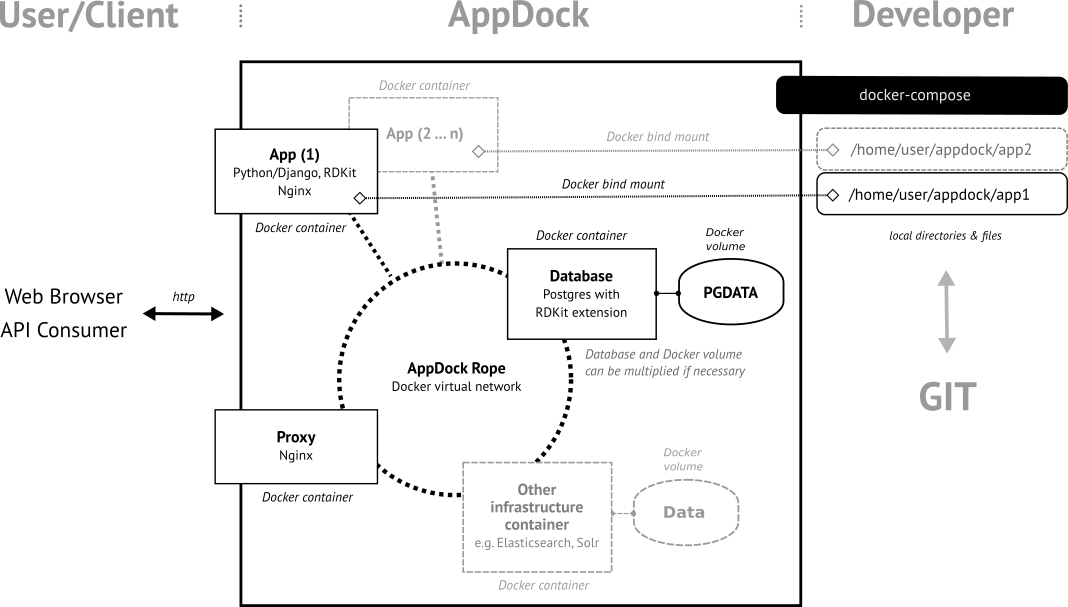
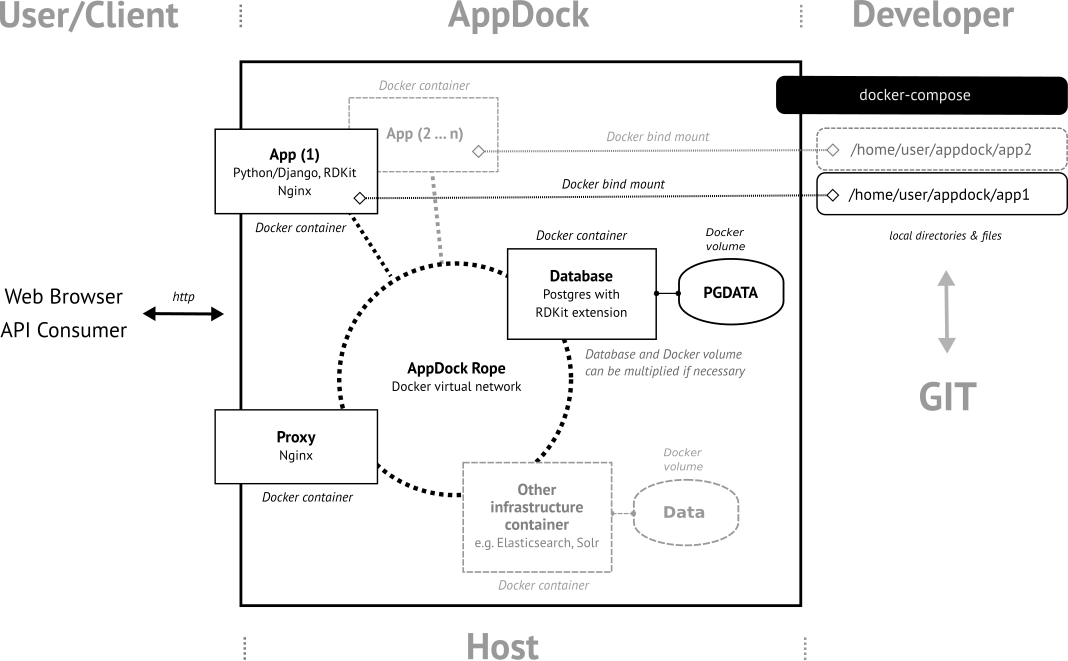
adding and updating documentation

diff --git a/README.rst b/README.rst
@@ -5,15 +5,28 @@ Overview
 --------
 
 **AppDock** is a `Docker <https://docs.docker.com/>`_ based platform intended for the rapid development of scientific
-web applications and microservices. At its current (early) development stage it specifically supports the quick
-development of `python <https://www.python.org/>`_/`Django <https://www.djangoproject.com/>`_ based services.
-Because its development was started with a cheminformatic-centric focus in mind, AppDock includes
-`RDKit <http://www.rdkit.org/>`_ both at its core application container for the development of the
-python/Django-based components, as well as database extension of the `Postgres <https://www.postgresql.org/>`_
-database container. The following schema provides an overview.
+web applications and microservices. It has been develop as component for the `InChI-Resolver <http://www.inchi-resolver.org/>`_
+project (the alpha version of) the resolver is currently in the process of being migrated from a predecessor version of AppDock)
+At its current (early) development stage, AppDock supports the quick deployment of `Python <https://www.python.org/>`_/`Django <https://www.djangoproject.com/>`_
+based services and specifically includes `RDKit <http://www.rdkit.org/>`_ for building `chemoinformatics <https://en.wikipedia.org/wiki/Cheminformatics>`_-centric
+applications. The following schema gives an overview.
 
 
 .. image:: docs/_images/appdock.png
+
+
+If launched, Appdock creates a Docker virtual network ("AppDock Rope") on the Docker host system and starts up several
+Docker containers which connect to this network. Currently, this includes a Postgres database container with RDKit
+extension readily available, a Nginx container which is configured as reverse proxy, and a basic application (App) container
+which provides a Django installation extended by the `Django REST framework <https://www.django-rest-framework.org/>`_ and RDKit on
+Python-level. The Django installation is set up to to establishes a connection to the database instance at the Postgres container
+and to link to the local Nginx web server instance inside the same App container (by uswgi). If the Nginx instance of
+the Proxy container senses another container with Nginx running inside the AppDock Rope network, it automatically
+looks up the (sub) domain specification of this additional Nginx instance and makes it available to the outside of
+AppDock (which either might be localhost or any Web-accessible domain). This mechanism allows to easily bring up
+additional App containers or update or remove existing ones.
+
+
 
 
 Requirements
